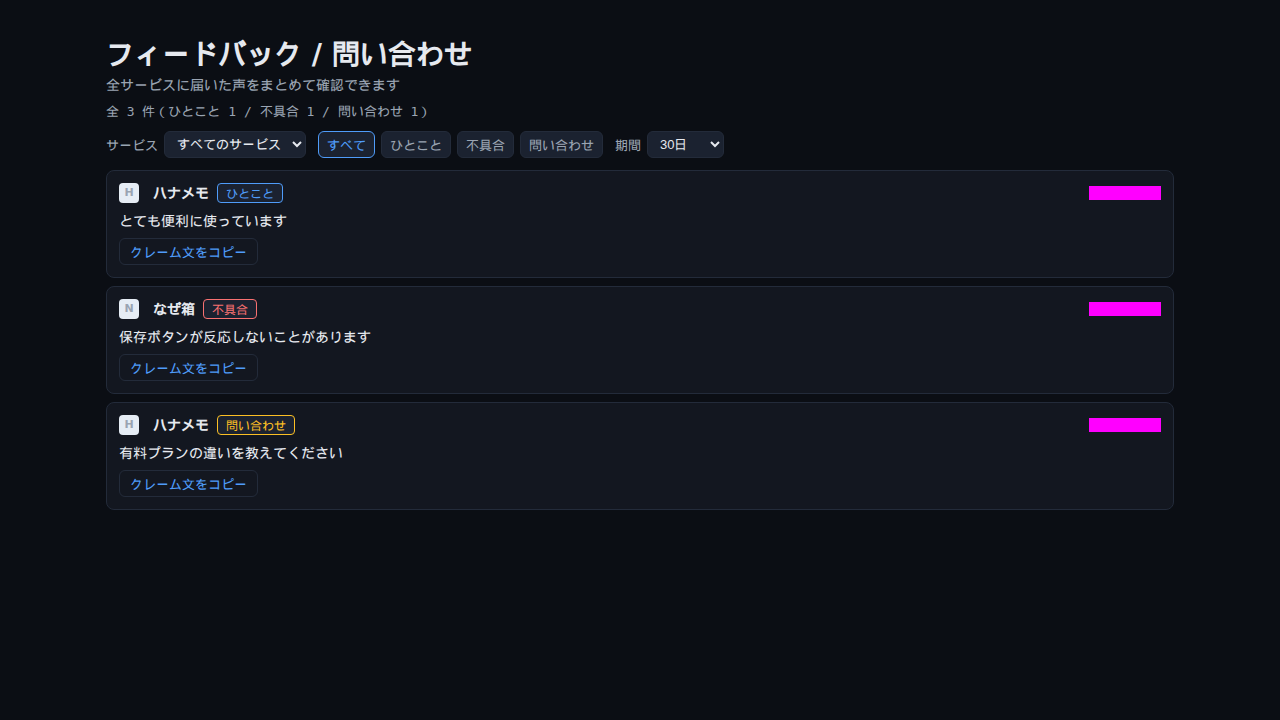
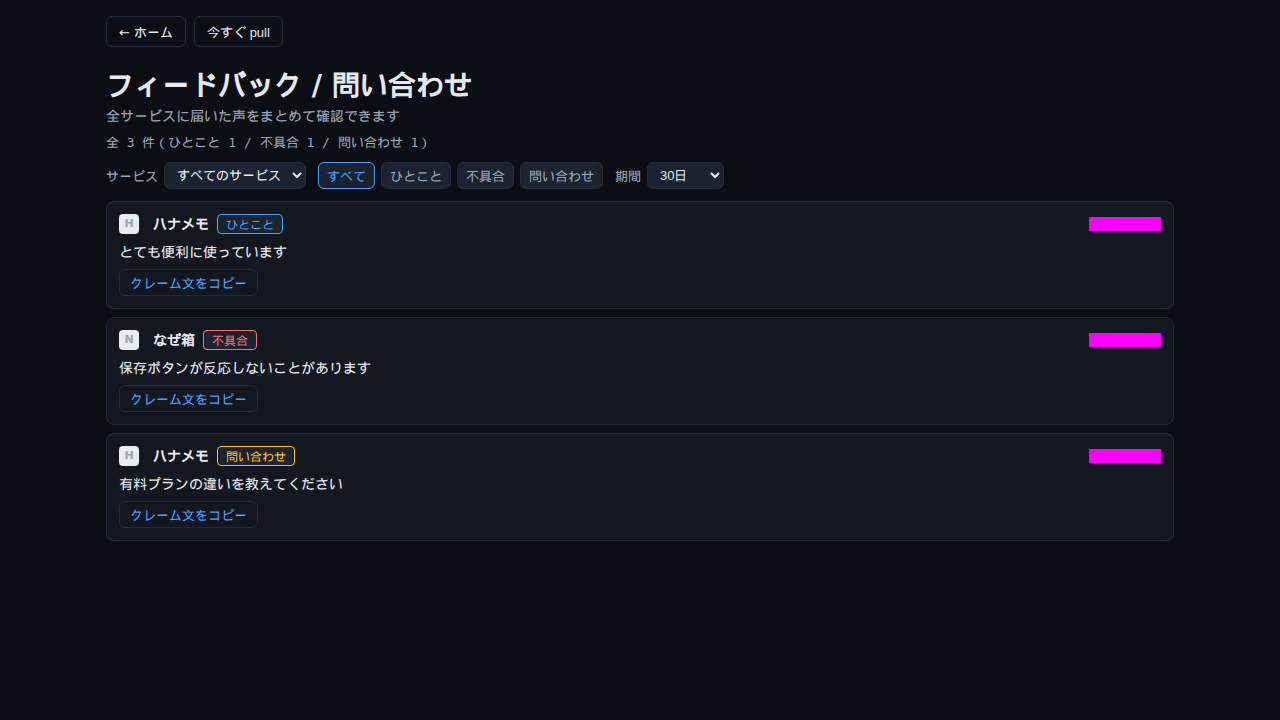
test(flow:e2e): feedback-inbox inbox-pull-source — home link + その場 pull E2E green
RE-N1/RE-P1·P3/RE-P2 + 回帰 4 = 7 passed (chromium route-mock)。
nav 追加で list/empty 視覚 baseline 再生成。

diff --git a/e2e/feedback-inbox.spec.ts b/e2e/feedback-inbox.spec.ts
@@ -107,3 +107,59 @@ test("RE-UC1-S1: 件数サマリ (全 N 件) を表示", async ({ page }) => {
   await page.goto("/feedback");
   await expect(page.getByTestId("count-summary")).toContainText("全 3 件");
 });
+
+test("RE-N1: ホームへ戻るリンク (href=/)", async ({ page }) => {
+  await page.route("**/api/feedback/inbox**", (r) => r.fulfill({ json: vm }));
+  await page.goto("/feedback");
+  const home = page.getByTestId("home-link");
+  await expect(home).toBeVisible();
+  await expect(home).toHaveAttribute("href", "/");
+});
+
+test("RE-P1/P3: 今すぐ pull → collect 呼出 + inbox refetch で新着反映", async ({
+  page,
+}) => {
+  let pulled = false;
+  // pull 後は shipyard の新着 1 件を加えた VM を返す (refetch を検証)。
+  await page.route("**/api/feedback/inbox**", (r) => {
+    const items = pulled
+      ? [
+          {
+            serviceSlug: "shipyard",
+            serviceName: "Shipyard",
+            externalId: "sy-1",
+            kind: "inquiry" as const,
+            body: "shipyard からの問い合わせです",
+            createdAt: "2026-06-19T00:00:00.000Z",
+            pulledAt: "2026-06-19T00:00:00.000Z",
+          },
+          ...vm.items,
+        ]
+      : vm.items;
+    return r.fulfill({ json: withCounts(items, services) });
+  });
+  // 無登録ソース pull を担う POST /api/admin/collect を mock。
+  await page.route("**/api/admin/collect", (r) => {
+    pulled = true;
+    return r.fulfill({
+      json: { status: "ok", servicesCount: 1, errors: [], feedback: {} },
+    });
+  });
+
+  await page.goto("/feedback");
+  await expect(page.getByTestId("feedback-item")).toHaveCount(3);
+  await page.getByRole("button", { name: "今すぐ pull" }).click();
+  await expect(page.getByTestId("feedback-item")).toHaveCount(4);
+  await expect(page.getByText("shipyard からの問い合わせです")).toBeVisible();
+});
+
+test("RE-P2: pull が 401 ならエラー表示・一覧は不変", async ({ page }) => {
+  await page.route("**/api/feedback/inbox**", (r) => r.fulfill({ json: vm }));
+  await page.route("**/api/admin/collect", (r) =>
+    r.fulfill({ status: 401, json: { error: "unauthorized" } }),
+  );
+  await page.goto("/feedback");
+  await page.getByRole("button", { name: "今すぐ pull" }).click();
+  await expect(page.getByRole("alert")).toContainText("http_401");
+  await expect(page.getByTestId("feedback-item")).toHaveCount(3);
+});

diff --git a/docs/feedback-inbox/revise_inbox-pull-source_20260619_unregistered-controls/103_REVISE_E2E_REPORT.md b/docs/feedback-inbox/revise_inbox-pull-source_20260619_unregistered-controls/103_REVISE_E2E_REPORT.md
@@ -1,0 +1,37 @@
+# E2E テストレポート: feedback-inbox inbox-pull-source (revise)
+
+## 実施日時
[phone redacted] (JST)
+
+## 関連ドキュメント
+- [004_REVISE_E2E_TEST.md](./004_REVISE_E2E_TEST.md) — E2E テスト計画
+
+## 実行環境
+- Playwright 1.60 (chromium, route-mock 方式)
+- preview build: `VITE_CLERK_PUBLISHABLE_KEY= npm run build && npm run preview --port 4173`
+
+## 結果
+
+| シナリオ ID | 内容 | 結果 |
+|---|---|---|
+| RE-N1 | ホームへ戻るリンク (href=/) 表示 | ✅ |
+| RE-P1/P3 | 今すぐ pull → POST /api/admin/collect → inbox refetch で shipyard 新着反映 | ✅ |
+| RE-P2 | pull 401 → エラー (http_401) 表示・一覧不変 | ✅ |
+| UC1-S1 (回帰) | 横断一覧 + kind バッジ + 新しい順 + 視覚 baseline | ✅ (nav 追加で baseline 再生成) |
+| UC1-S4 (回帰) | 空状態 + 視覚 baseline | ✅ (baseline 再生成) |
+| UC1-S3 (回帰) | kind chips 絞り込み | ✅ |
+| RE-UC1-S1 (回帰) | 件数サマリ | ✅ |
+
+**feedback-inbox spec: 7 passed**。視覚 baseline 2 枚 (list / empty) を nav 追加に合わせ再生成。
+nav は既存 design token (border/surface) を踏襲し視覚的に整合 (Design gate 目視確認 green)。
+
+## 移行検証
+DB マイグレーションなし → 移行シナリオ該当なし。
+
+## サマリー
+| 項目 | 値 |
+|---|---|
+| 新規シナリオ | 3 (RE-N1 / RE-P1·P3 / RE-P2) |
+| 回帰シナリオ | 4 |
+| 成功 | 7 / 7 |
+| 視覚 baseline 再生成 | 2 (nav 追加) |

diff --git a/docs/feedback-inbox/revise_inbox-pull-source_20260619_unregistered-controls/INDEX.md b/docs/feedback-inbox/revise_inbox-pull-source_20260619_unregistered-controls/INDEX.md
@@ -2,7 +2,7 @@
 
 **issue / slug**: inbox-pull-source
 **実施日**: 2026-06-19
-**状態**: 実装完了 (2026-06-19) — unit green、E2E 待ち
+**状態**: 実装 + E2E green (2026-06-19) — unit 409 + E2E 7、デプロイ待ち
 
 <!-- ticket-status: implemented | updated: 20260619 | ref: 101 -->
 
@@ -17,6 +17,7 @@
 | 004 | [004_REVISE_E2E_TEST.md](./004_REVISE_E2E_TEST.md) | REVISE_E2E_TEST | 2026-06-19 |
 | 101 | [101_REVISE_IMPL_REPORT.md](./101_REVISE_IMPL_REPORT.md) | IMPL_REPORT | 2026-06-19 |
 | 102 | [102_REVISE_UNIT_TEST_REPORT.md](./102_REVISE_UNIT_TEST_REPORT.md) | UNIT_TEST_REPORT | 2026-06-19 |
+| 103 | [103_REVISE_E2E_REPORT.md](./103_REVISE_E2E_REPORT.md) | E2E_REPORT | 2026-06-19 |
 
 > マイグレーション (005): 不要 (DB スキーマ変更なし、env additive)
 